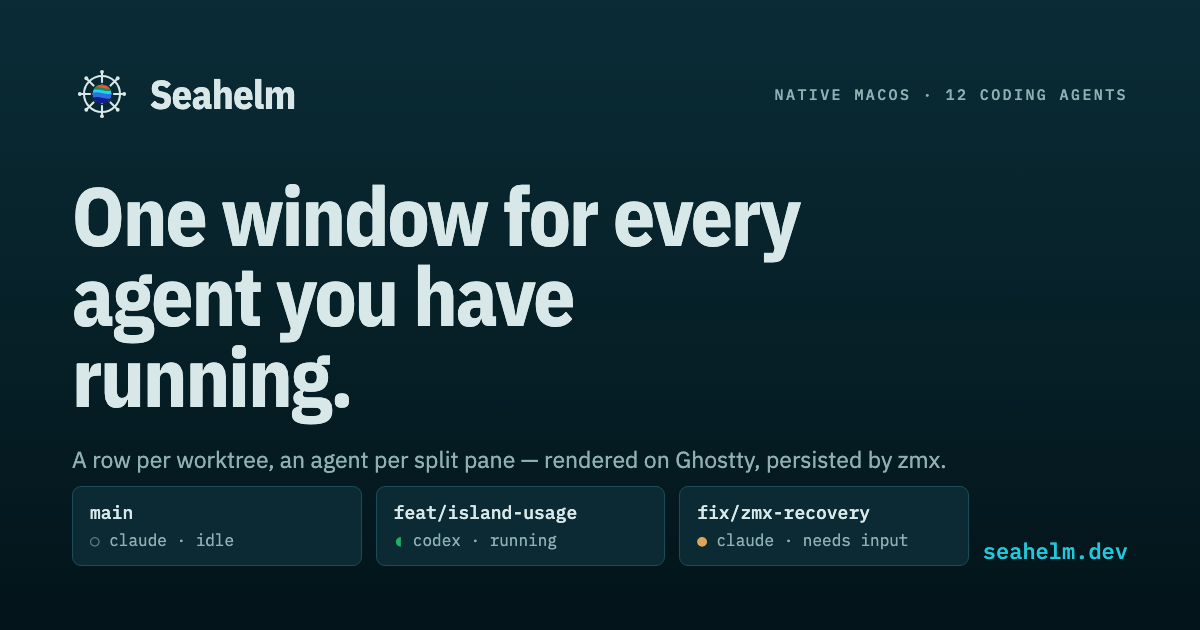
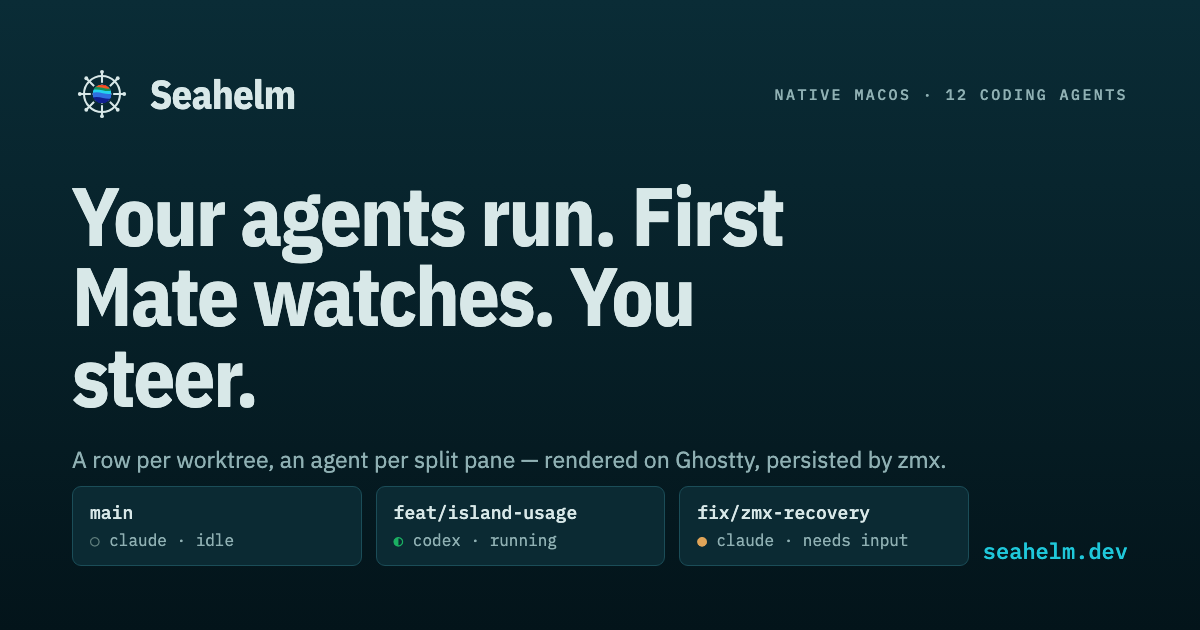
docs(en): match the hero to the Chinese framing
The Chinese hero now says agents run, First Mate assists, you steer. The
English one still claimed "one window for every agent you have running" —
a claim about the window rather than about the division of labour, and out
of step with its own translation.

Carries the same three beats. "Steer" is the point the product name
already makes.

The line lives in og:title, twitter:title and the social card source as
well, so all four move together and site/og.png is re-rendered.

Also fixes the running glyph in both card templates: ◖ (U+25D6) where
AgentStatus.glyph returns ◐ (U+25D0). #110 corrected the two site pages
but not these, so the shared card disagreed with the page it links to.

Claude-Session: https://claude.ai/code/session_01KYGZXCWRW3mLnhr8ADuGjh

Changed region(s): [[0.0617, 0.4222, 0.5858, 0.6937], [0.0617, 0.2714, 0.6783, 0.4222]]

diff --git a/site/index.html b/site/index.html
@@ -16,7 +16,7 @@
 <meta property="og:url" content="https://www.seahelm.dev/">
 <meta property="og:locale" content="en_US">
 <meta property="og:locale:alternate" content="zh_CN">
-<meta property="og:title" content="Seahelm &mdash; one window for every agent you have running">
+<meta property="og:title" content="Seahelm &mdash; your agents run, you steer">
 <meta property="og:description" content="Seahelm is a native macOS workspace for coding agents, git worktrees and parallel development. A row per worktree, an agent per split pane — rendered on Ghostty, persisted by zmx.">
 <meta property="og:image" content="https://www.seahelm.dev/og.png">
 <meta property="og:image:width" content="1200">
@@ -24,7 +24,7 @@
 <meta property="og:image:alt" content="Seahelm — a native macOS workspace for coding agents">
 
 <meta name="twitter:card" content="summary_large_image">
-<meta name="twitter:title" content="Seahelm &mdash; one window for every agent you have running">
+<meta name="twitter:title" content="Seahelm &mdash; your agents run, you steer">
 <meta name="twitter:description" content="Seahelm is a native macOS workspace for coding agents, git worktrees and parallel development. A row per worktree, an agent per split pane — rendered on Ghostty, persisted by zmx.">
 <meta name="twitter:image" content="https://www.seahelm.dev/og.png">
 
@@ -82,7 +82,7 @@
 
     <div class="hero">
       <p class="eyebrow"><span class="mark">&#9679;</span> A native macOS workspace for coding agents</p>
-      <h1>One window for every agent you have running.</h1>
+      <h1>Your agents run. First Mate watches. You steer.</h1>
       <p class="lede">
         Your fleet sits on one roster: a row per worktree, mustered by repo, by status, or by what
         moved last, one agent to a split pane. Seahelm draws every one of them on the Ghostty engine,

diff --git a/scripts/og-card.html b/scripts/og-card.html
@@ -50,7 +50,7 @@
     <span class="eyebrow">native macOS &middot; 12 coding agents</span>
   </div>
 
-  <h1>One window for every agent you have running.</h1>
+  <h1>Your agents run. First Mate watches. You steer.</h1>
   <p class="sub">A row per worktree, an agent per split pane &mdash;
      rendered on Ghostty, persisted by zmx.</p>
 
@@ -58,7 +58,7 @@
     <div class="card"><div class="b">main</div>
       <div class="p"><span style="color:var(--idle)">&#9675;</span> claude &middot; idle</div></div>
     <div class="card"><div class="b">feat/island-usage</div>
-      <div class="p"><span style="color:var(--run)">&#9686;</span> codex &middot; running</div></div>
+      <div class="p"><span style="color:var(--run)">&#9680;</span> codex &middot; running</div></div>
     <div class="card"><div class="b">fix/zmx-recovery</div>
       <div class="p"><span style="color:var(--wait)">&#9679;</span> claude &middot; needs input</div></div>
     <div class="dom">seahelm.dev</div>

diff --git a/scripts/og-card.zh.html b/scripts/og-card.zh.html
@@ -58,7 +58,7 @@
     <div class="card"><div class="b">main</div>
       <div class="p"><span style="color:var(--idle)">&#9675;</span> claude &middot; 空闲</div></div>
     <div class="card"><div class="b">feat/island-usage</div>
-      <div class="p"><span style="color:var(--run)">&#9686;</span> codex &middot; 运行中</div></div>
+      <div class="p"><span style="color:var(--run)">&#9680;</span> codex &middot; 运行中</div></div>
     <div class="card"><div class="b">fix/zmx-recovery</div>
       <div class="p"><span style="color:var(--wait)">&#9679;</span> claude &middot; 待输入</div></div>
     <div class="dom">seahelm.dev/zh</div>
